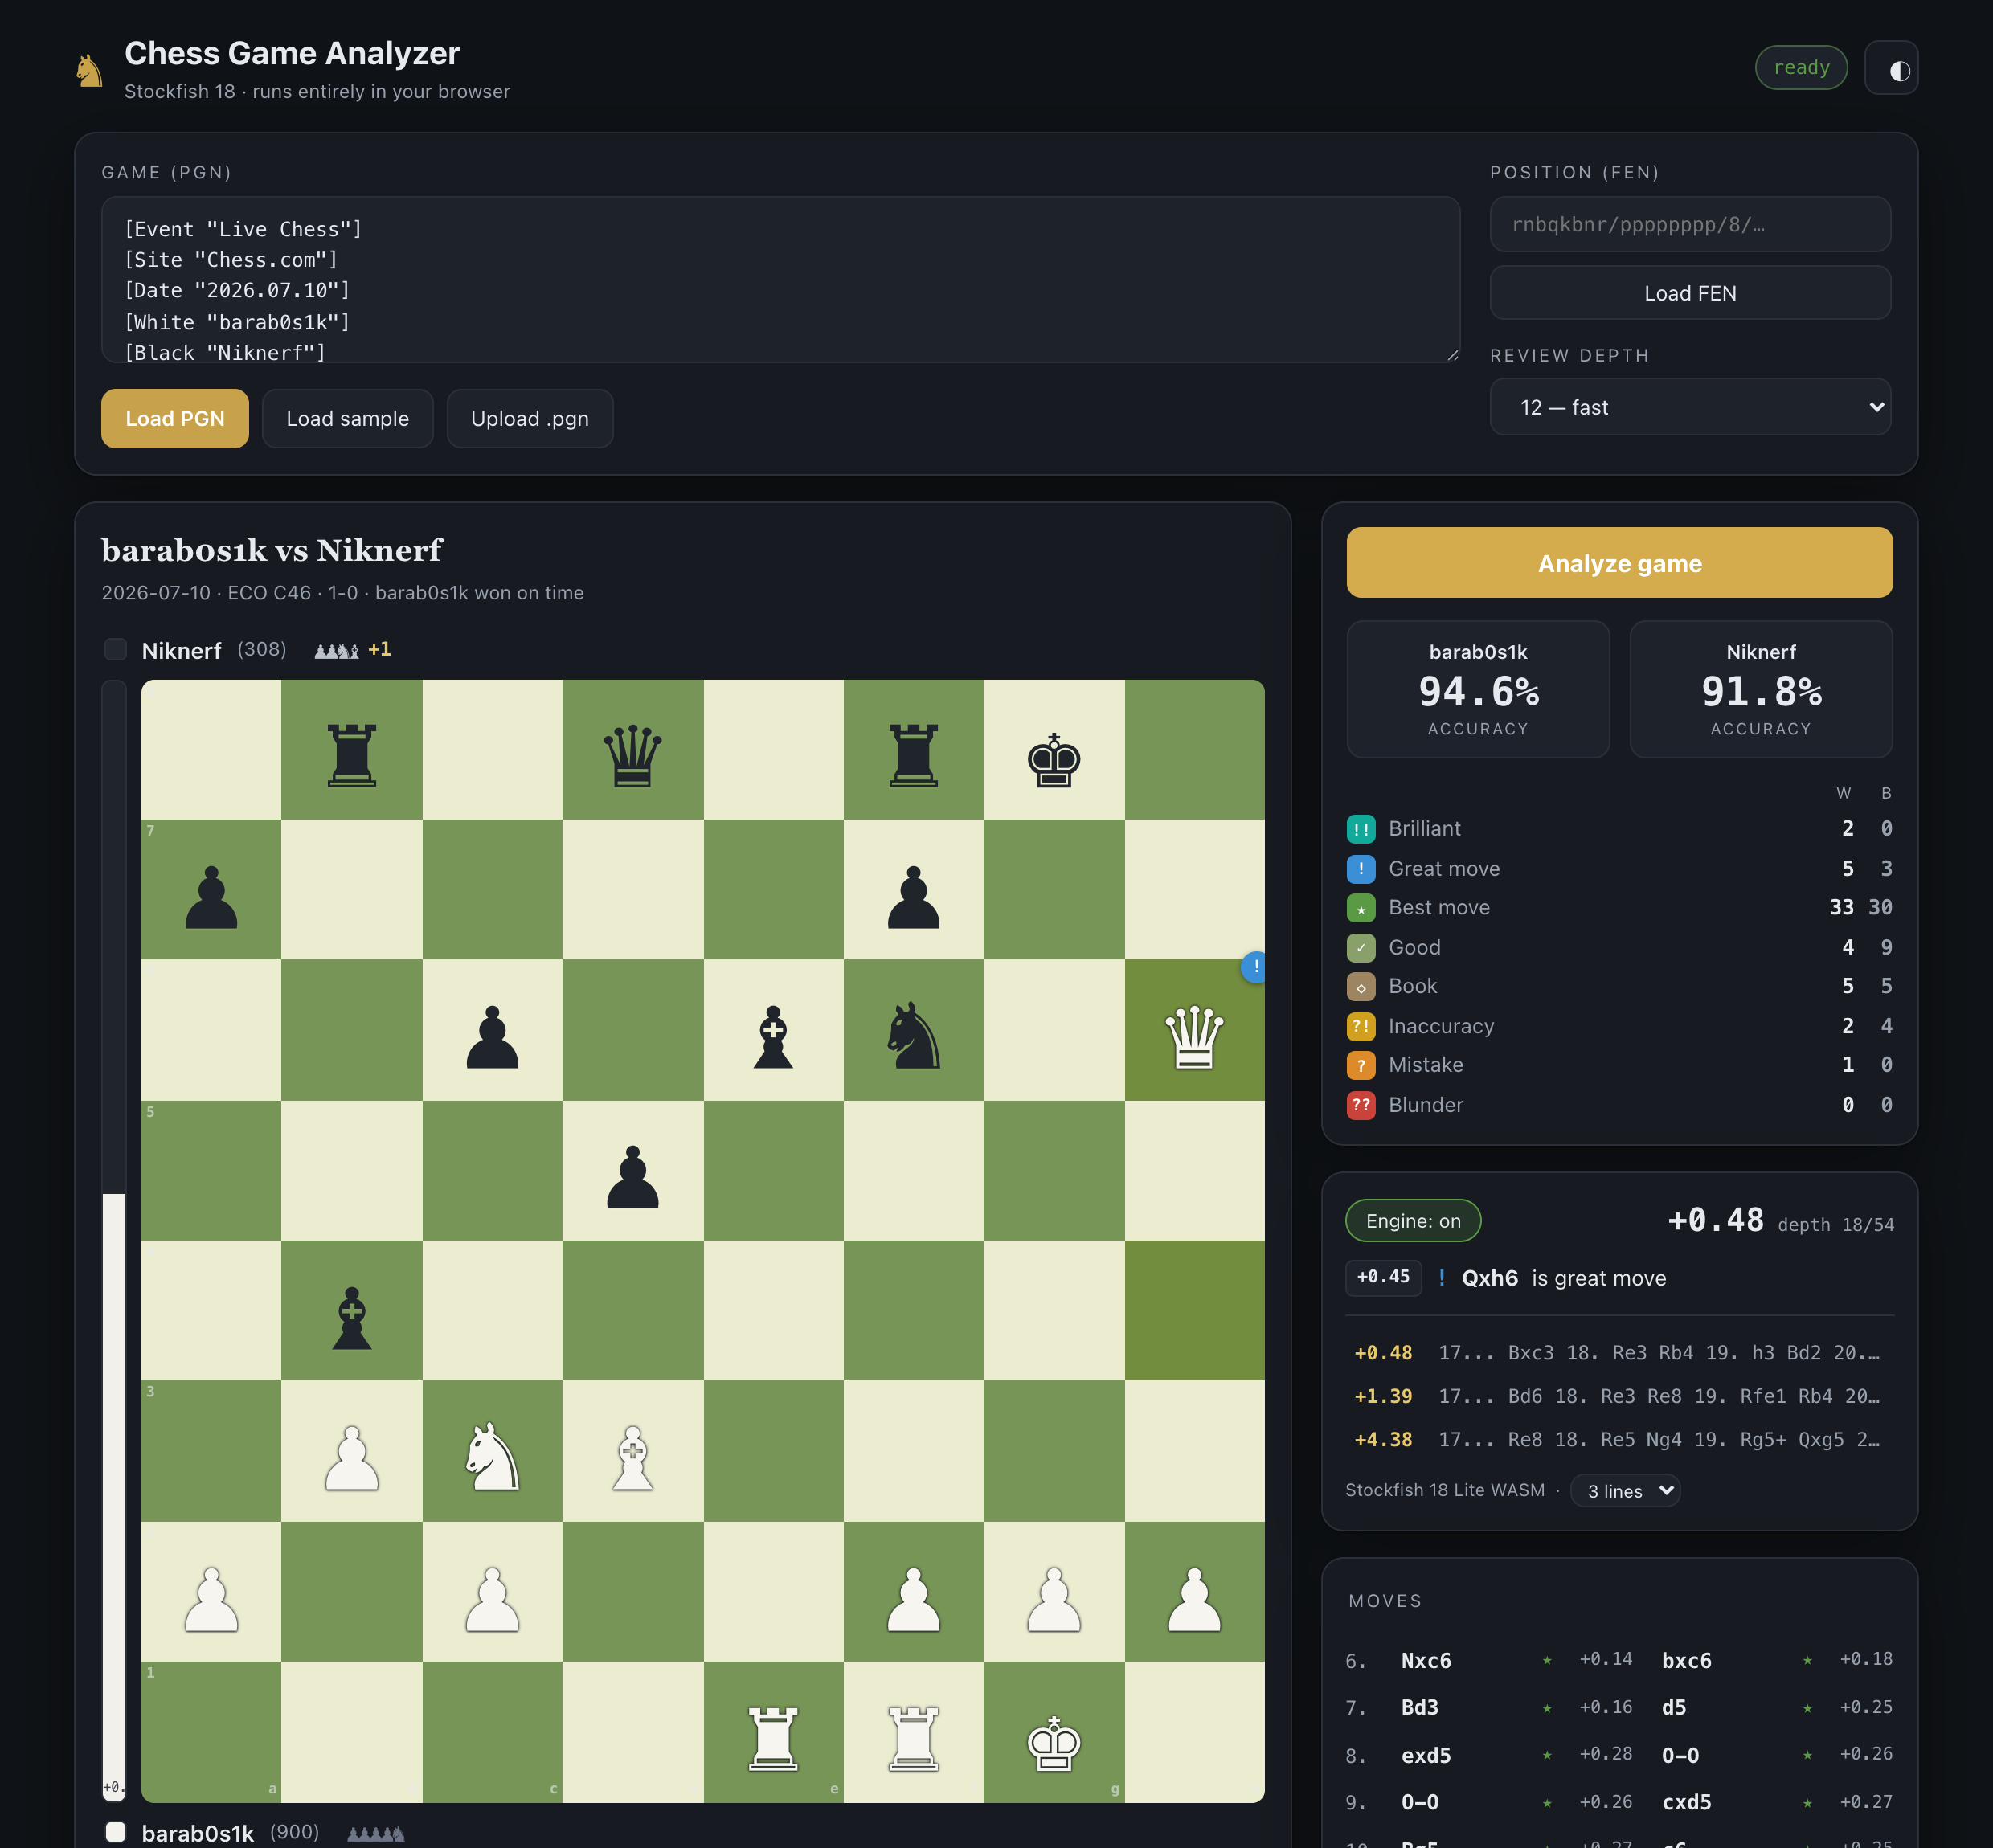
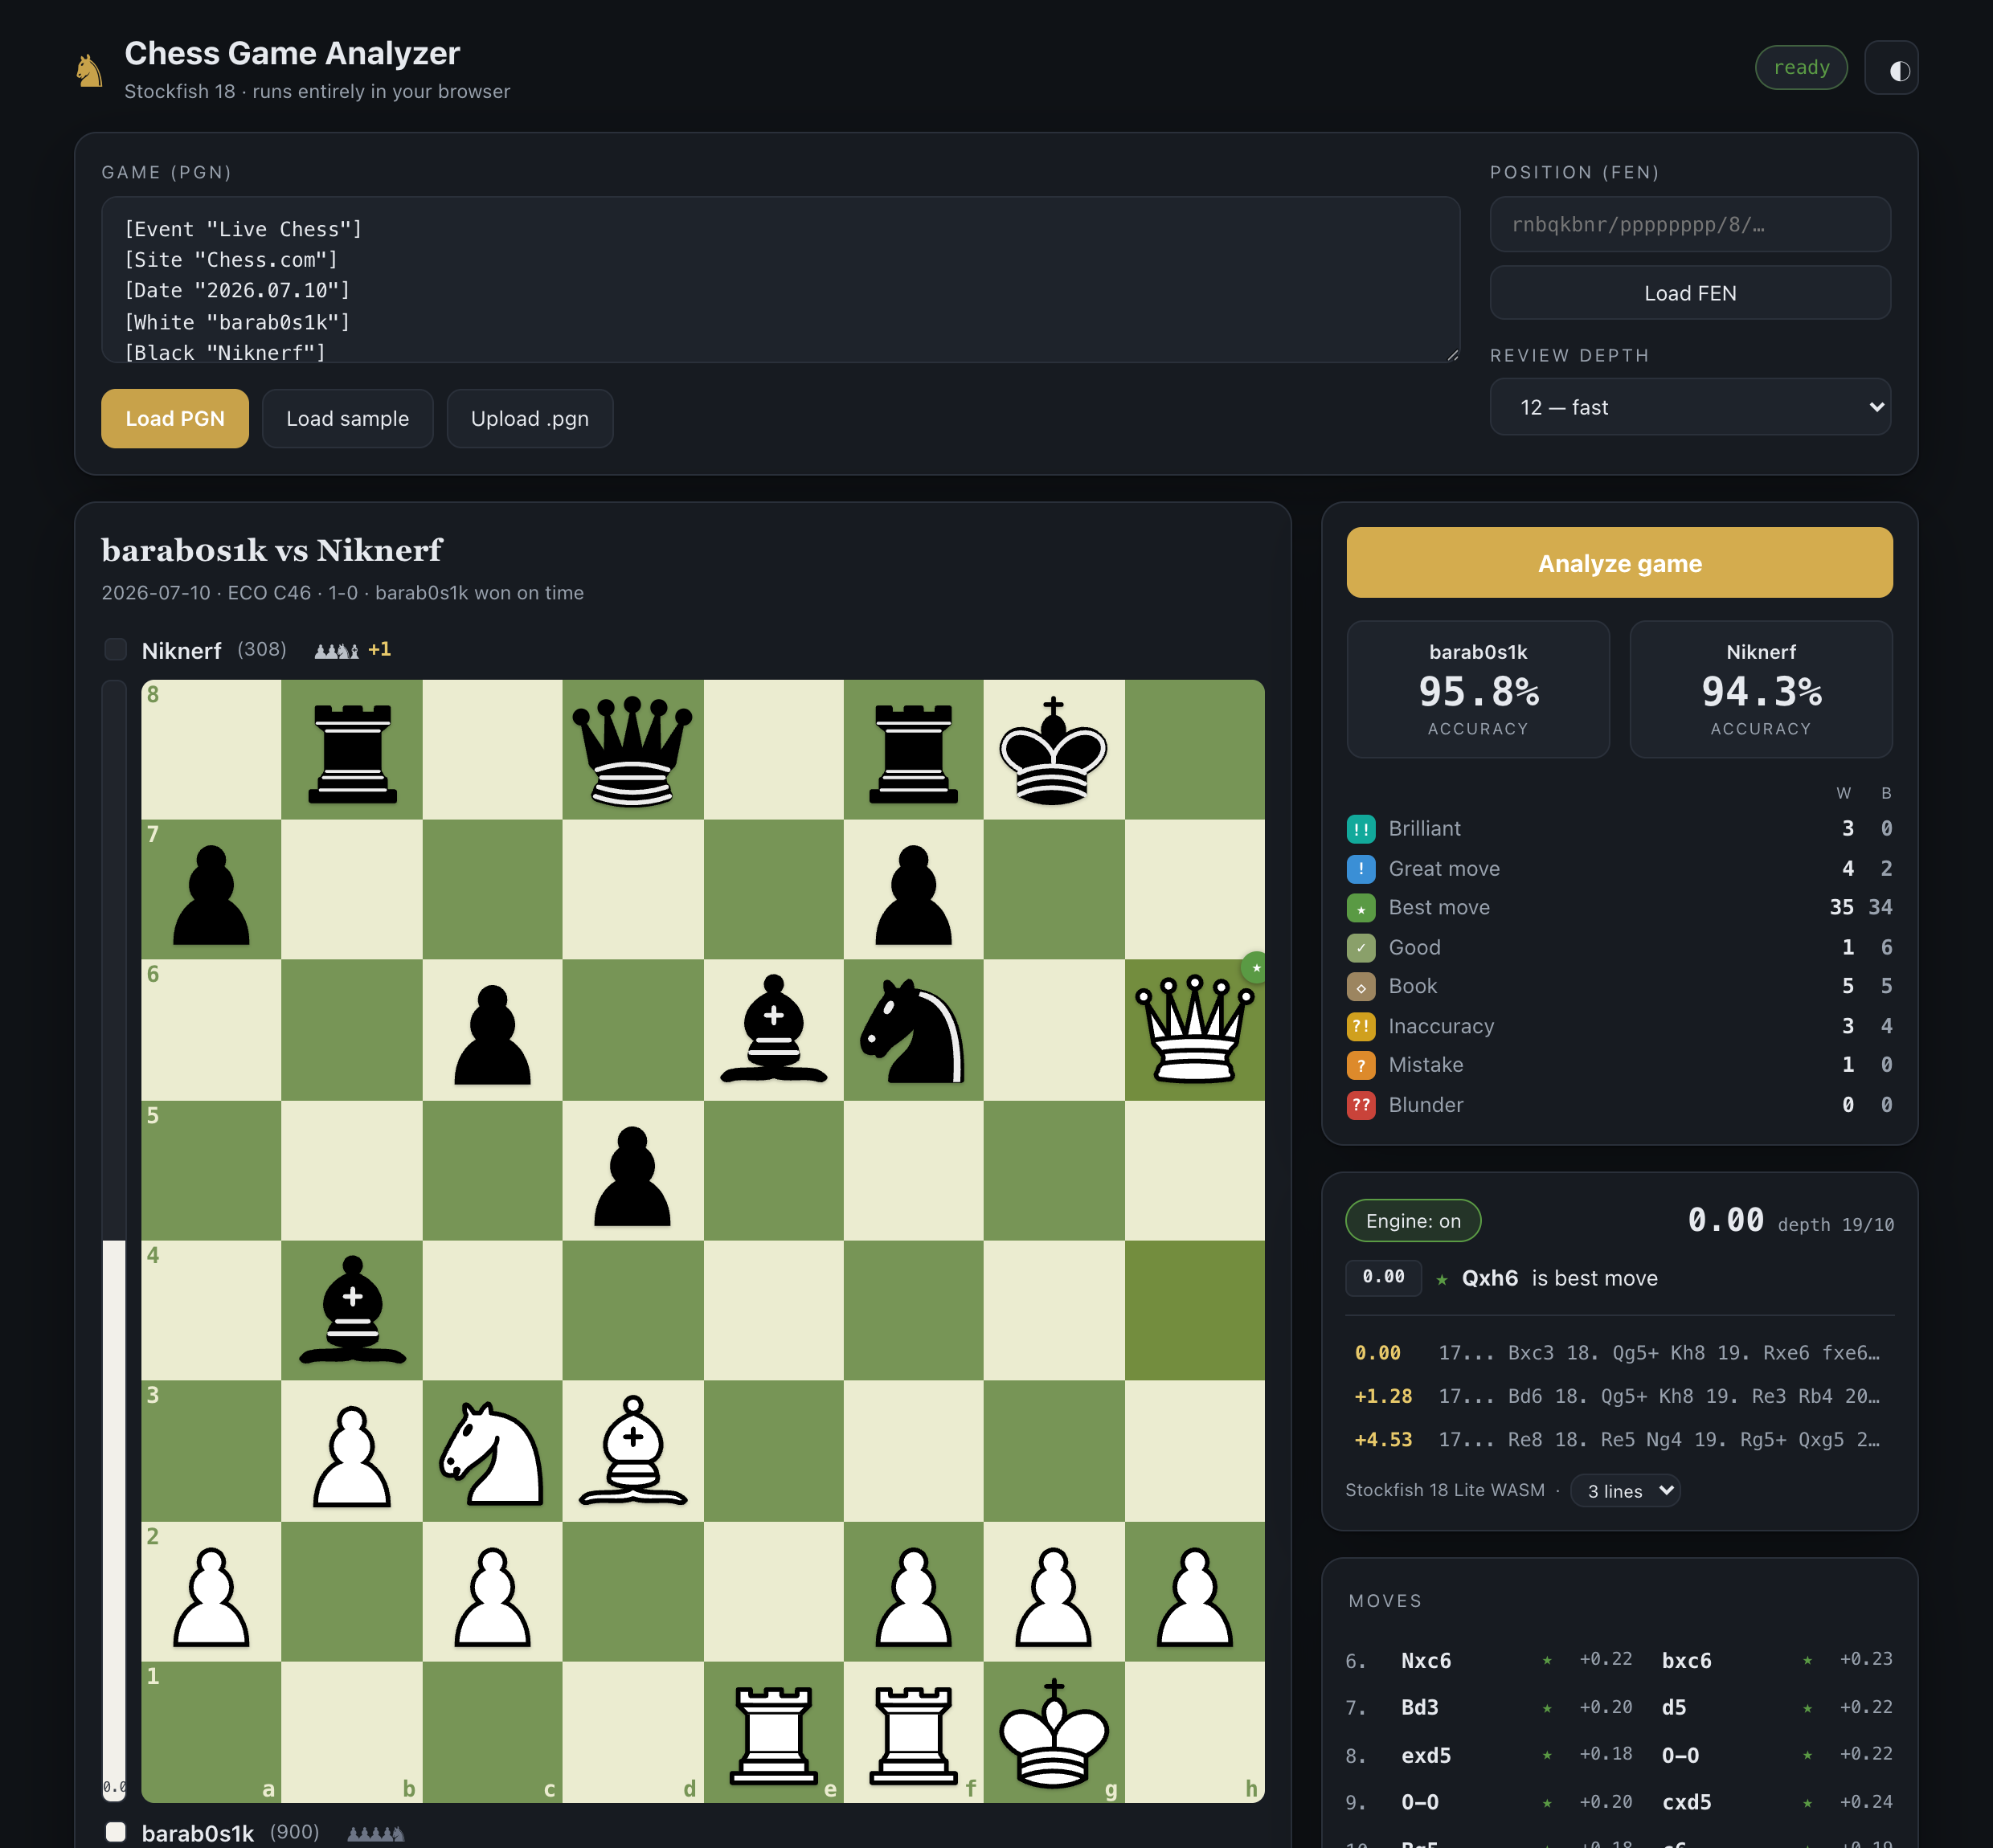
Start empty, larger visible coordinates, and SVG (cburnett) pieces
- App now opens with no game preloaded (empty state prompts to load a game)
- Board coordinates enlarged, bolded, and colored to contrast the square
- Replace Unicode glyphs with the cburnett GPL SVG piece set for crisp pieces

diff --git a/css/style.css b/css/style.css
@@ -122,13 +122,15 @@ select#depthSel{width:100%}
 .sq.l{background:var(--sq-l)}.sq.d{background:var(--sq-d)}
 .sq.hl::after{content:"";position:absolute;inset:0;background:var(--hl);opacity:.42;mix-blend-mode:multiply}
 .sq.sel::before{content:"";position:absolute;inset:0;background:var(--sel);opacity:.5}
-.pc{position:relative;z-index:1;font-size:9.4cqw;line-height:1;pointer-events:none}
-.pc.w{color:#f7f5ef;text-shadow:0 0 1px #14181f,0 1px 1px rgba(0,0,0,.35),0 0 2px #14181f}
-.pc.b{color:#20242b;text-shadow:0 1px 1px rgba(255,255,255,.10)}
+.pc{position:relative;z-index:1;width:100%;height:100%;pointer-events:none;
+  background-size:contain;background-position:center;background-repeat:no-repeat;
+  filter:drop-shadow(0 1.5px 1px rgba(0,0,0,.22))}
 .target{position:absolute;width:26%;height:26%;border-radius:50%;background:rgba(20,24,32,.28);z-index:2}
 .target.cap{width:82%;height:82%;background:transparent;border:5px solid rgba(20,24,32,.28);border-radius:50%}
-.coord{position:absolute;font-family:var(--mono);font-size:9px;font-weight:600;opacity:.6;z-index:1}
-.coord.f{right:3px;bottom:1px}.coord.r{left:3px;top:1px}
+.coord{position:absolute;font-family:var(--mono);font-weight:700;z-index:1;font-size:max(11px,2cqw);line-height:1}
+.coord.f{right:4px;bottom:2px}.coord.r{left:3px;top:2px}
+.sq.l .coord{color:var(--sq-d)}
+.sq.d .coord{color:var(--sq-l)}
 .badge{position:absolute;top:-5px;right:-5px;width:20px;height:20px;border-radius:50%;display:flex;
   align-items:center;justify-content:center;font-family:var(--mono);font-size:10.5px;font-weight:800;
   color:#fff;z-index:3;box-shadow:0 1px 4px rgba(0,0,0,.45)}

diff --git a/js/app.js b/js/app.js
@@ -171,7 +171,9 @@ function loadGame(parsed) {
 // ---------- rendering ----------
 function renderHeader() {
   const h = state.headers;
-  el.hdrTitle.textContent = (h.White || "White") + "  vs  " + (h.Black || "Black");
+  const hasGame = !!(h.White || h.Black || state.moves.length);
+  el.hdrTitle.textContent = hasGame ? (h.White || "White") + "  vs  " + (h.Black || "Black")
+                                    : "Load a game to analyze";
   el.pWName.textContent = h.White || "White";
   el.pBName.textContent = h.Black || "Black";
   el.pWElo.textContent = h.WhiteElo ? "(" + h.WhiteElo + ")" : "";
@@ -181,7 +183,8 @@ function renderHeader() {
   if (h.ECO) bits.push("ECO " + h.ECO);
   if (h.Result) bits.push(h.Result);
   if (h.Termination) bits.push(h.Termination);
-  el.hdrMeta.textContent = bits.join("  ·  ");
+  el.hdrMeta.textContent = hasGame && bits.length ? bits.join("  ·  ")
+    : "Paste a PGN or FEN above, upload a .pgn file, or click Load sample.";
 }
 
 function renderMoveList() {
@@ -522,6 +525,5 @@ bind();
 buildLegend();
 el.depthSel.value = String(state.reviewDepth);
 el.linesSel.value = String(state.liveLines);
-loadGame(parseGame(SAMPLE_PGN));
-el.pgnInput.value = SAMPLE_PGN;
+loadGame({ headers: {}, moves: [], startFen: DEFAULT_FEN }); // start empty — no game preloaded
 boot();

diff --git a/js/board.js b/js/board.js
@@ -2,7 +2,8 @@
 // highlight, a classification badge, coordinates, and optional click-to-move.
 import { CLASSES } from "./review.js";
 
-const GLYPH = { p: "♟", n: "♞", b: "♝", r: "♜", q: "♛", k: "♚" };
+// cburnett SVG piece set (GPL). Path is relative to the HTML document base.
+const PIECES = "vendor/pieces/cburnett/";
 
 export function renderBoard(el, fen, opts = {}) {
   const { flip = false, lastMove = null, badge = null, selected = null, targets = [], onSquareClick = null } = opts;
@@ -34,9 +35,10 @@ export function renderBoard(el, fen, opts = {}) {
       if (selected === name) sq.classList.add("sel");
 
       if (piece) {
+        const isWhite = piece === piece.toUpperCase();
         const pc = document.createElement("div");
-        pc.className = "pc " + (piece === piece.toUpperCase() ? "w" : "b");
-        pc.textContent = GLYPH[piece.toLowerCase()];
+        pc.className = "pc";
+        pc.style.backgroundImage = "url('" + PIECES + (isWhite ? "w" : "b") + piece.toUpperCase() + ".svg')";
         sq.appendChild(pc);
       }
       if (targets.includes(name)) {

diff --git a/README.md b/README.md
@@ -73,6 +73,7 @@ any human and more than enough for accurate game review.
 - Analysis engine: [Stockfish](https://github.com/official-stockfish/Stockfish),
   compiled to WebAssembly via [nmrugg/stockfish.js](https://github.com/nmrugg/stockfish.js).
 - Move generation / PGN: [chess.js](https://github.com/jhlywa/chess.js).
+- Board pieces: the **cburnett** SVG set by Colin M. L. Burnett (GPL), via [lichess-org/lila](https://github.com/lichess-org/lila).
 
 Stockfish is licensed under the **GNU General Public License v3**. Because this project
 bundles it, the project is distributed under the **GPLv3** as well — see [LICENSE](LICENSE).